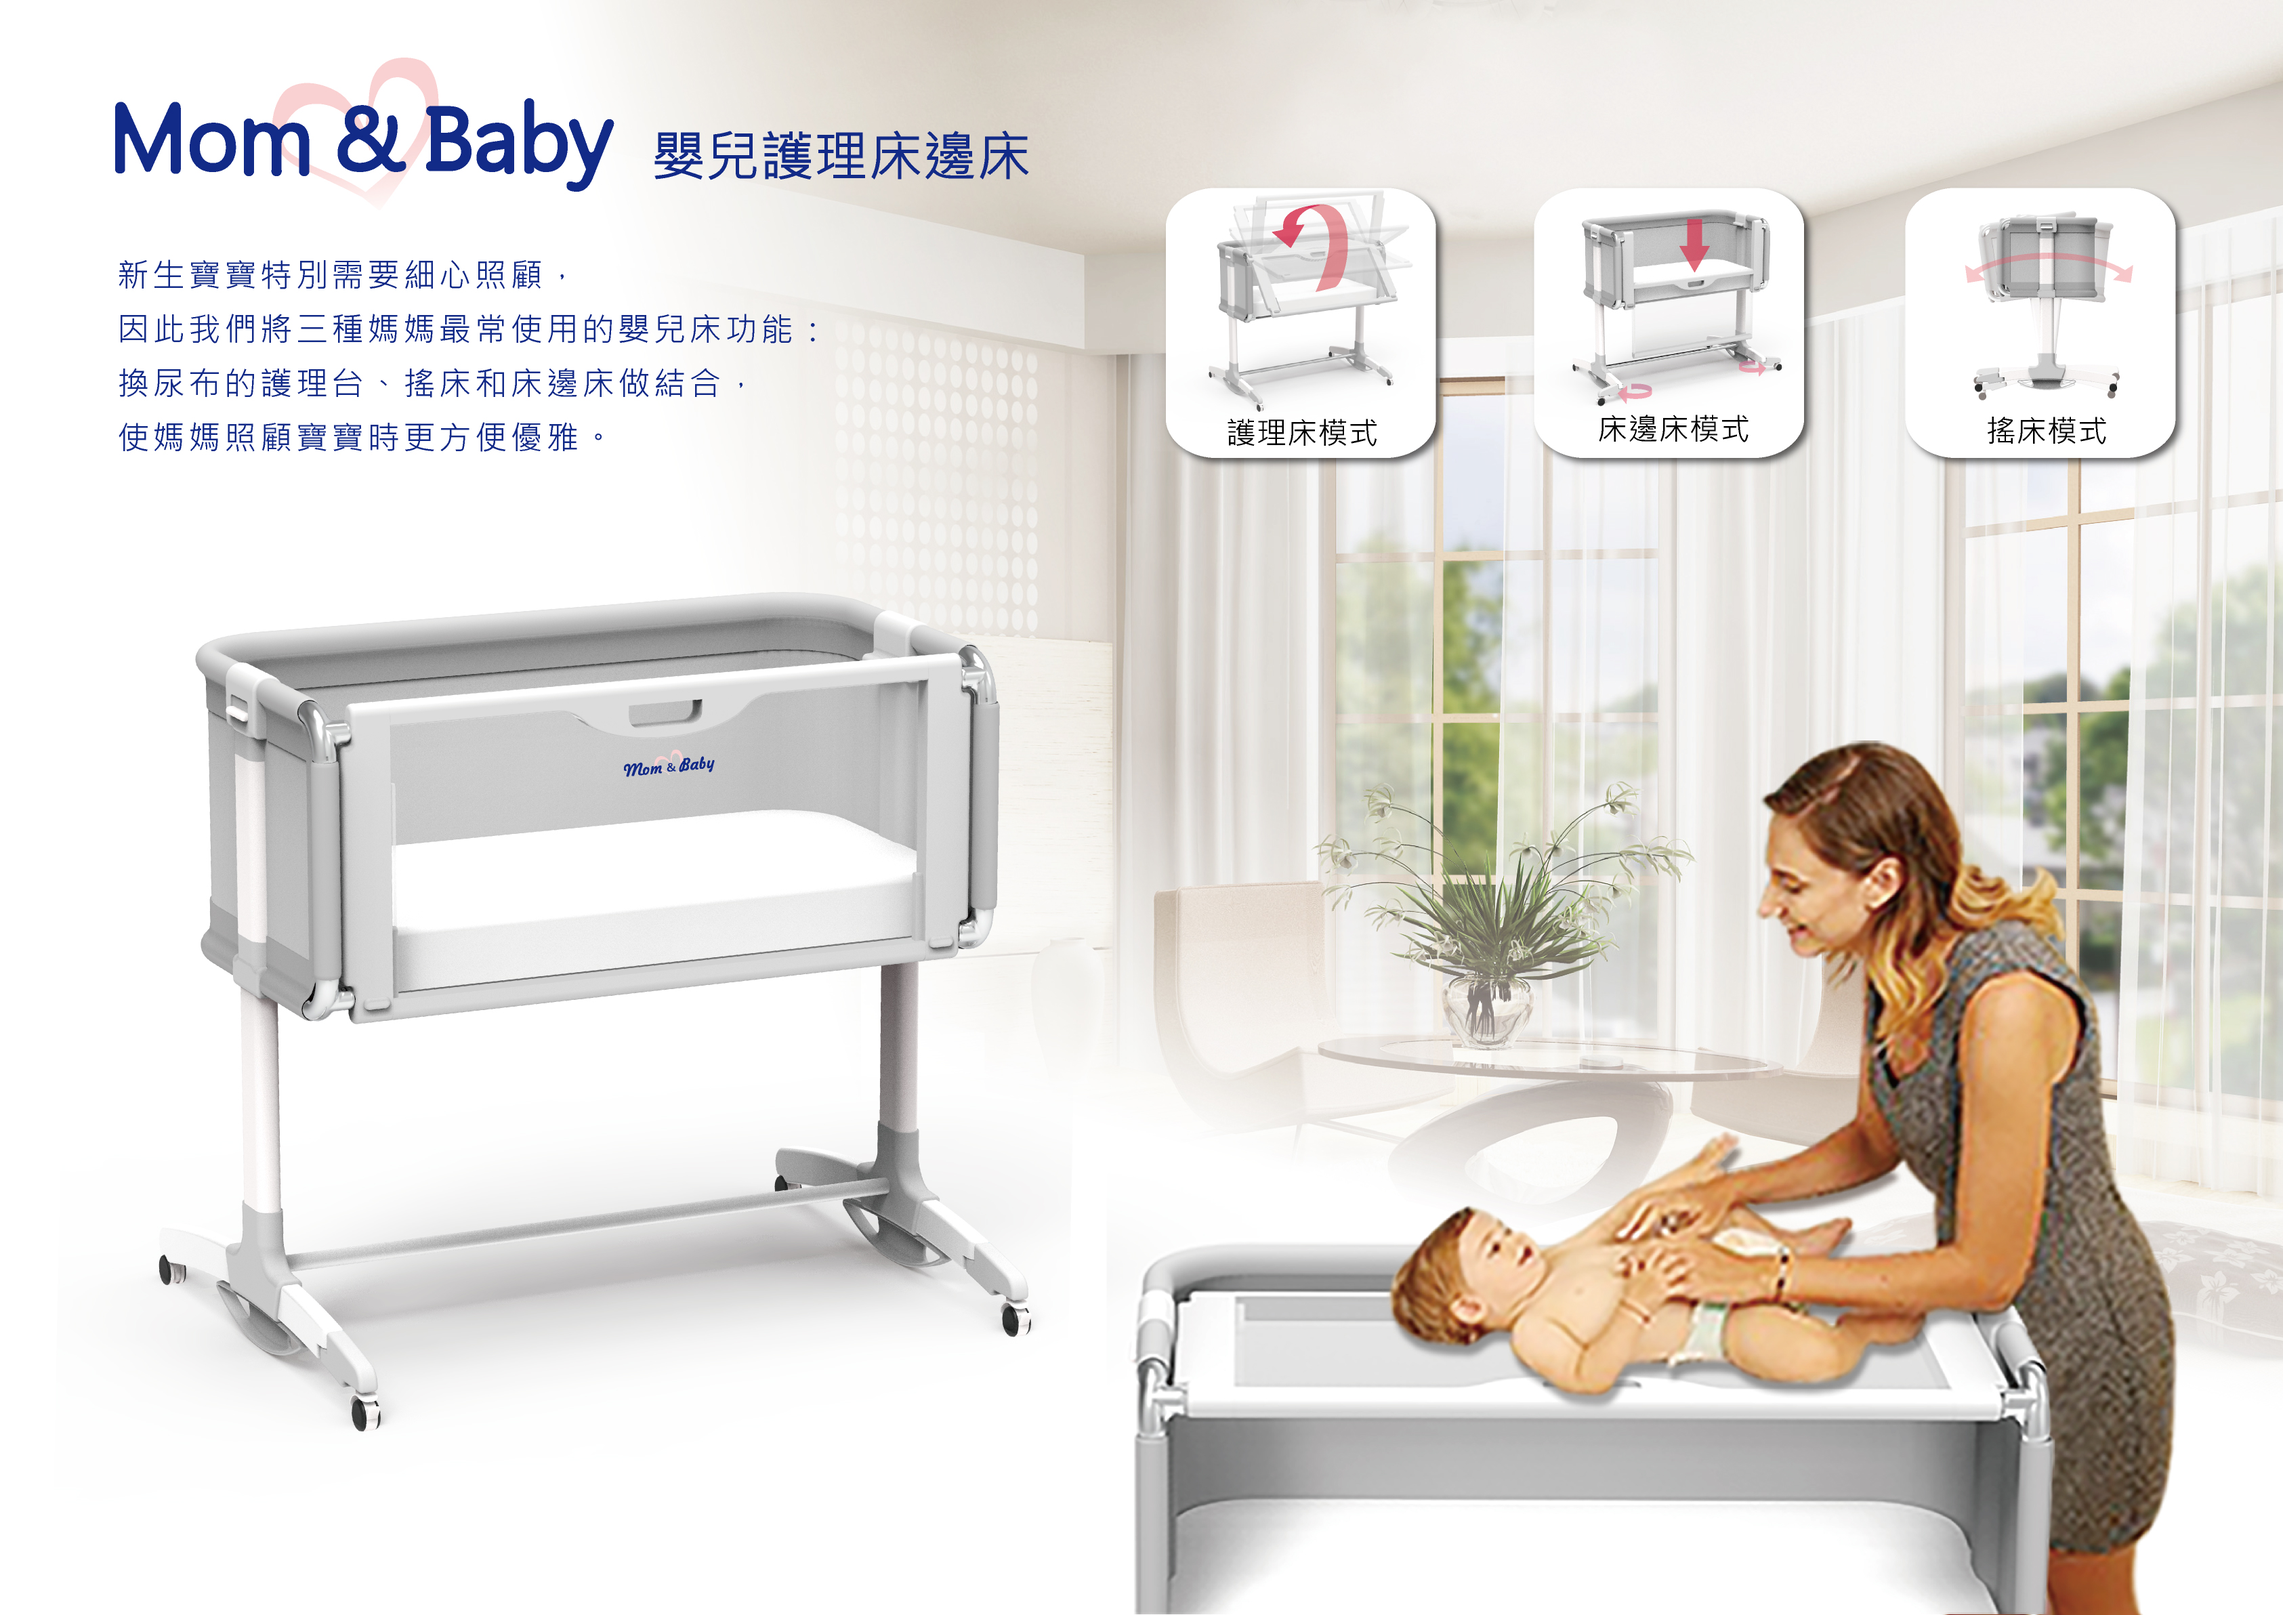
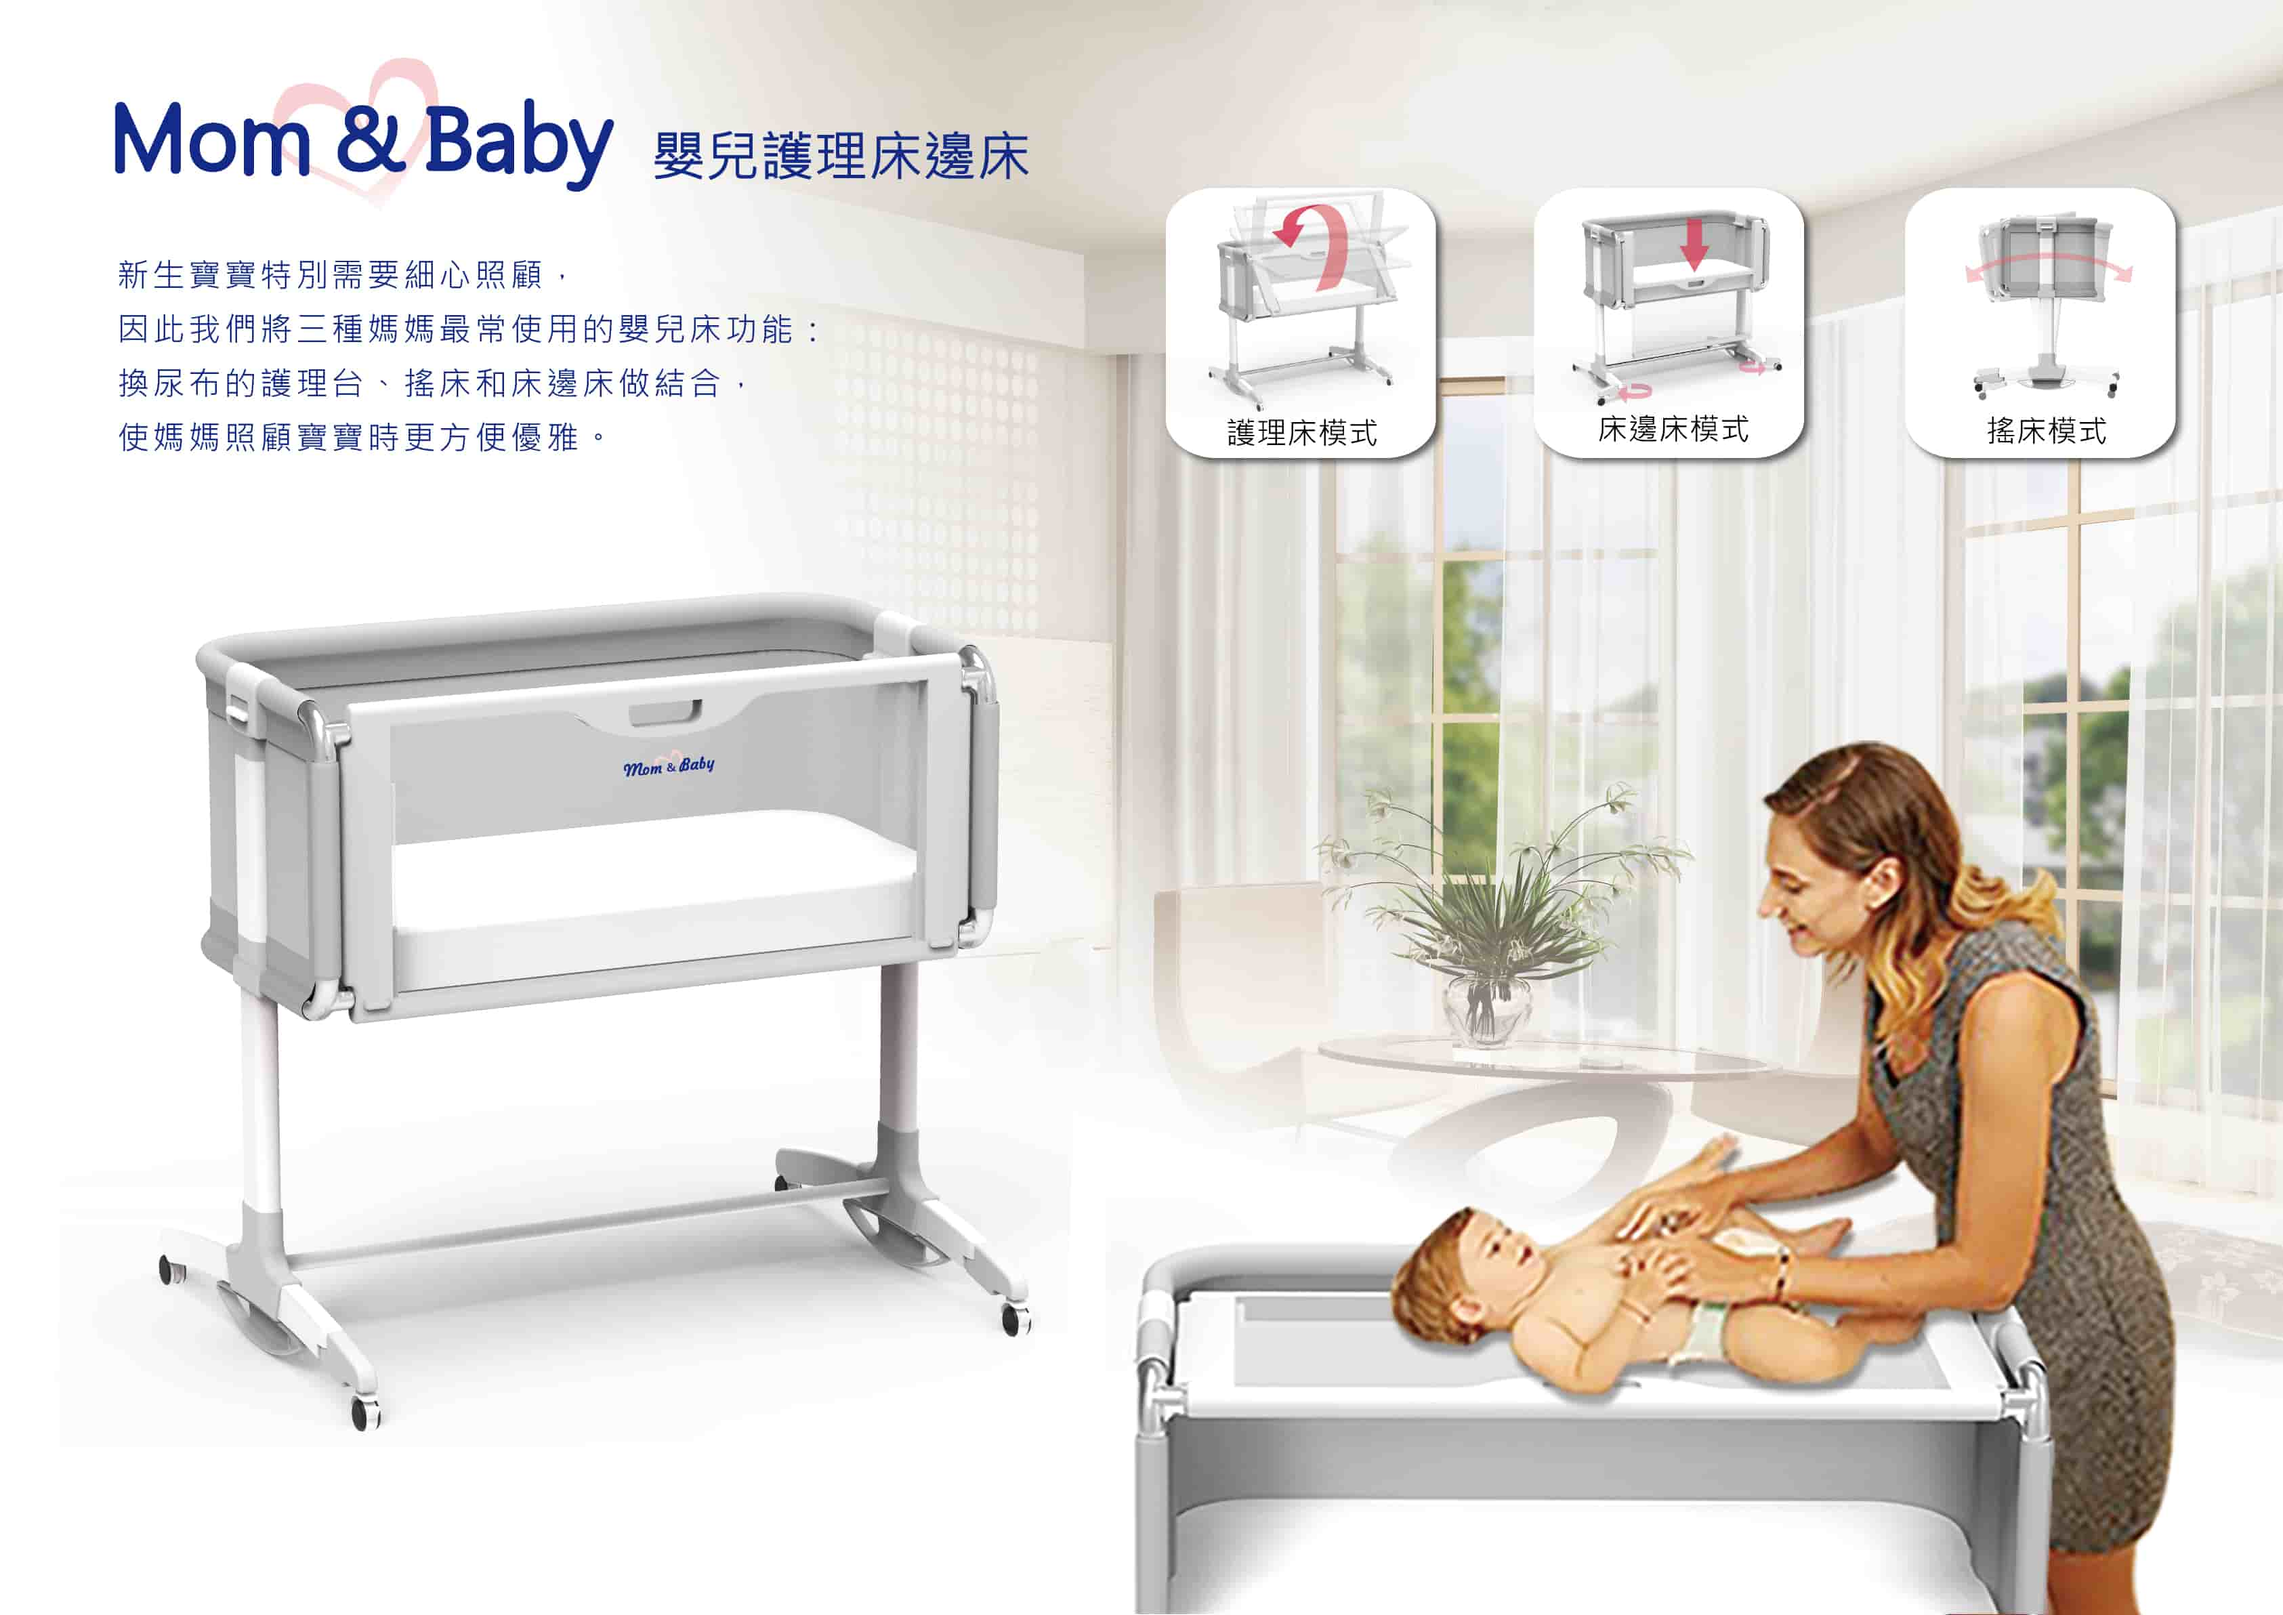
圖片壓縮

diff --git a/src/page/Homepage.tsx b/src/page/Homepage.tsx
@@ -60,42 +60,42 @@ function MainPage() {
         <a href="/" className={style.introduceImg}>
           <div>
             <img
-              src={`https://bibiya.tw/img/2022-homepage/web/mainpage.png`}
+              src={`https://bibiya.tw/img/2022-homepage/web/mainpage.jpg`}
               alt=""
             />
             <p>首頁</p>
           </div>
           <div>
             <img
-              src={`https://bibiya.tw/img/2022-homepage/web/mainpage_product.png`}
+              src={`https://bibiya.tw/img/2022-homepage/web/mainpage_product.jpg`}
               alt=""
             />
             <p>商品首頁</p>
           </div>
           <div>
             <img
-              src={`https://bibiya.tw/img/2022-homepage/web/productdetail.png`}
+              src={`https://bibiya.tw/img/2022-homepage/web/productdetail.jpg`}
               alt=""
             />
             <p>商品詳細頁</p>
           </div>
           <div>
             <img
-              src={`https://bibiya.tw/img/2022-homepage/web/cart1.png`}
+              src={`https://bibiya.tw/img/2022-homepage/web/cart1.jpg`}
               alt=""
             />
             <p>購物流程一：開始結帳</p>
           </div>
           <div>
             <img
-              src={`https://bibiya.tw/img/2022-homepage/web/cart2.png`}
+              src={`https://bibiya.tw/img/2022-homepage/web/cart2.jpg`}
               alt=""
             />
             <p>購物流程二：確認訂單</p>
           </div>
           <div>
             <img
-              src={`https://bibiya.tw/img/2022-homepage/web/mySell_product.png`}
+              src={`https://bibiya.tw/img/2022-homepage/web/mySell_product.jpg`}
               alt=""
             />
             <p>賣家中心</p>
@@ -113,14 +113,14 @@ function MainPage() {
         <a href="/" className={style.ifImg}>
           <div>
             <img
-              src={`https://bibiya.tw/img/2022-homepage/self-reliance.png`}
+              src={`https://bibiya.tw/img/2022-homepage/self-reliance.jpg`}
               alt=""
             />
             <p>概念設計表版</p>
           </div>
           <div>
             <img
-              src={`https://bibiya.tw/img/2022-homepage/design-talent-award.png`}
+              src={`https://bibiya.tw/img/2022-homepage/design-talent-award.jpg`}
               alt=""
             />
             <p>IF Design Talent Award</p>
